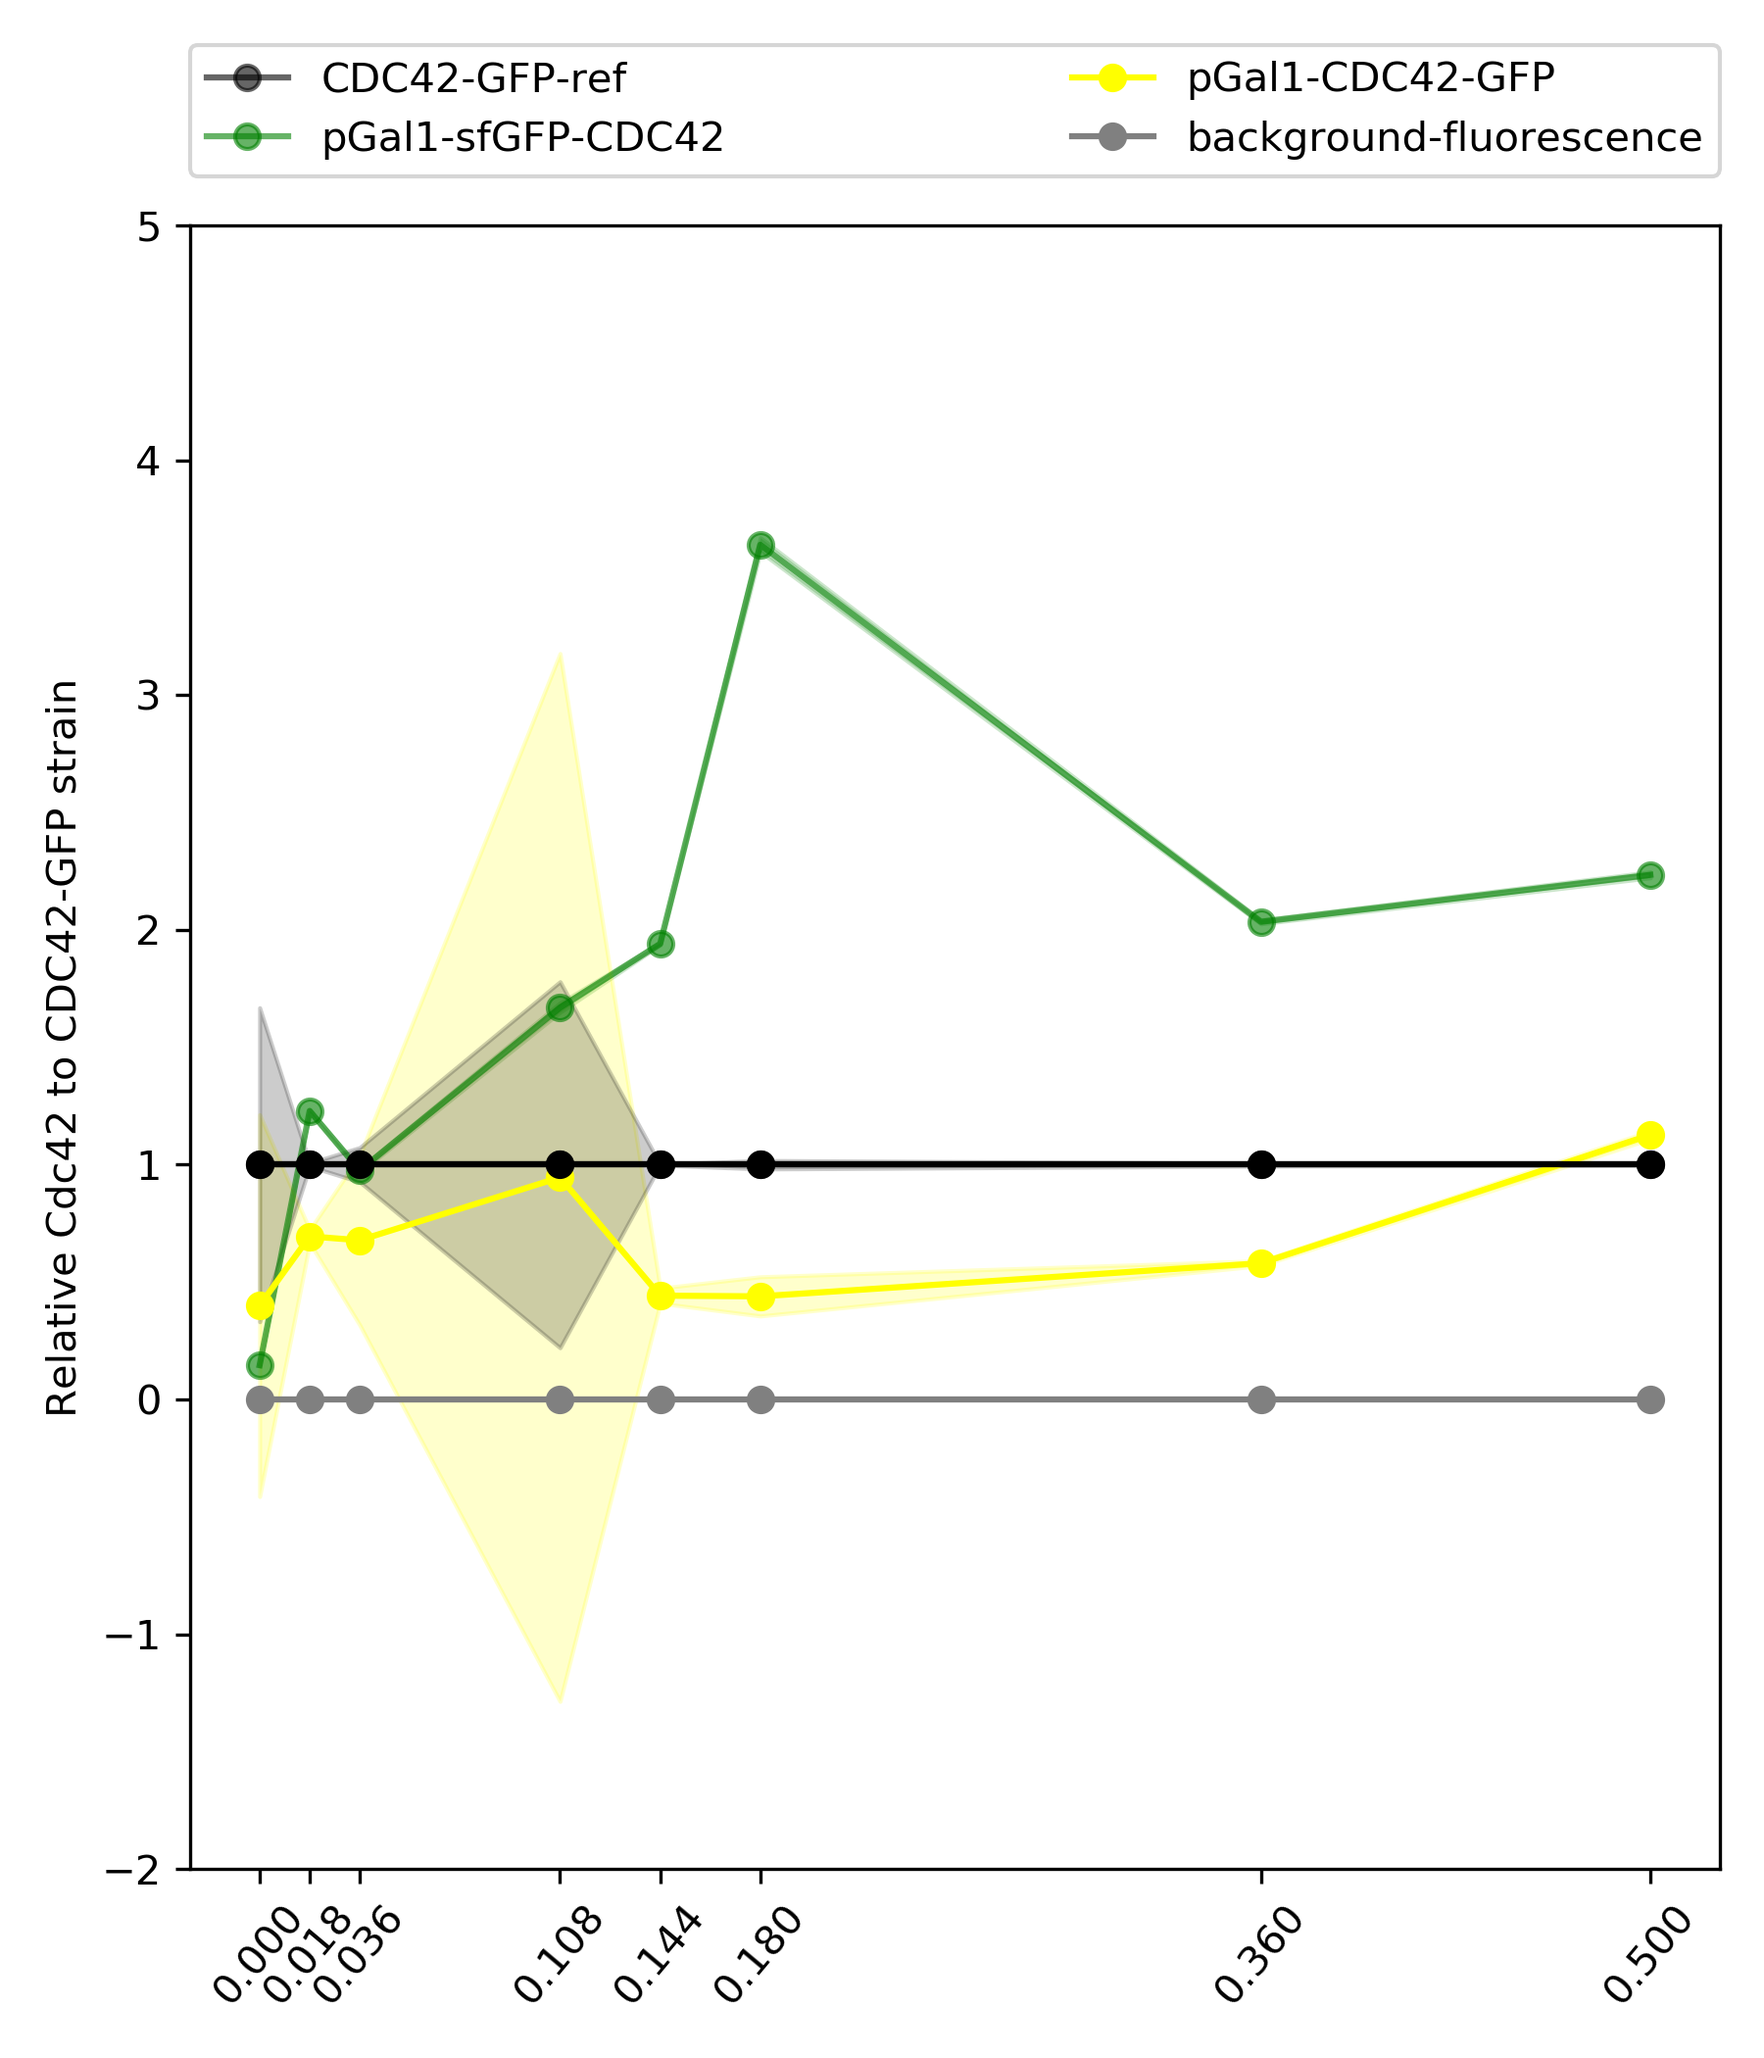
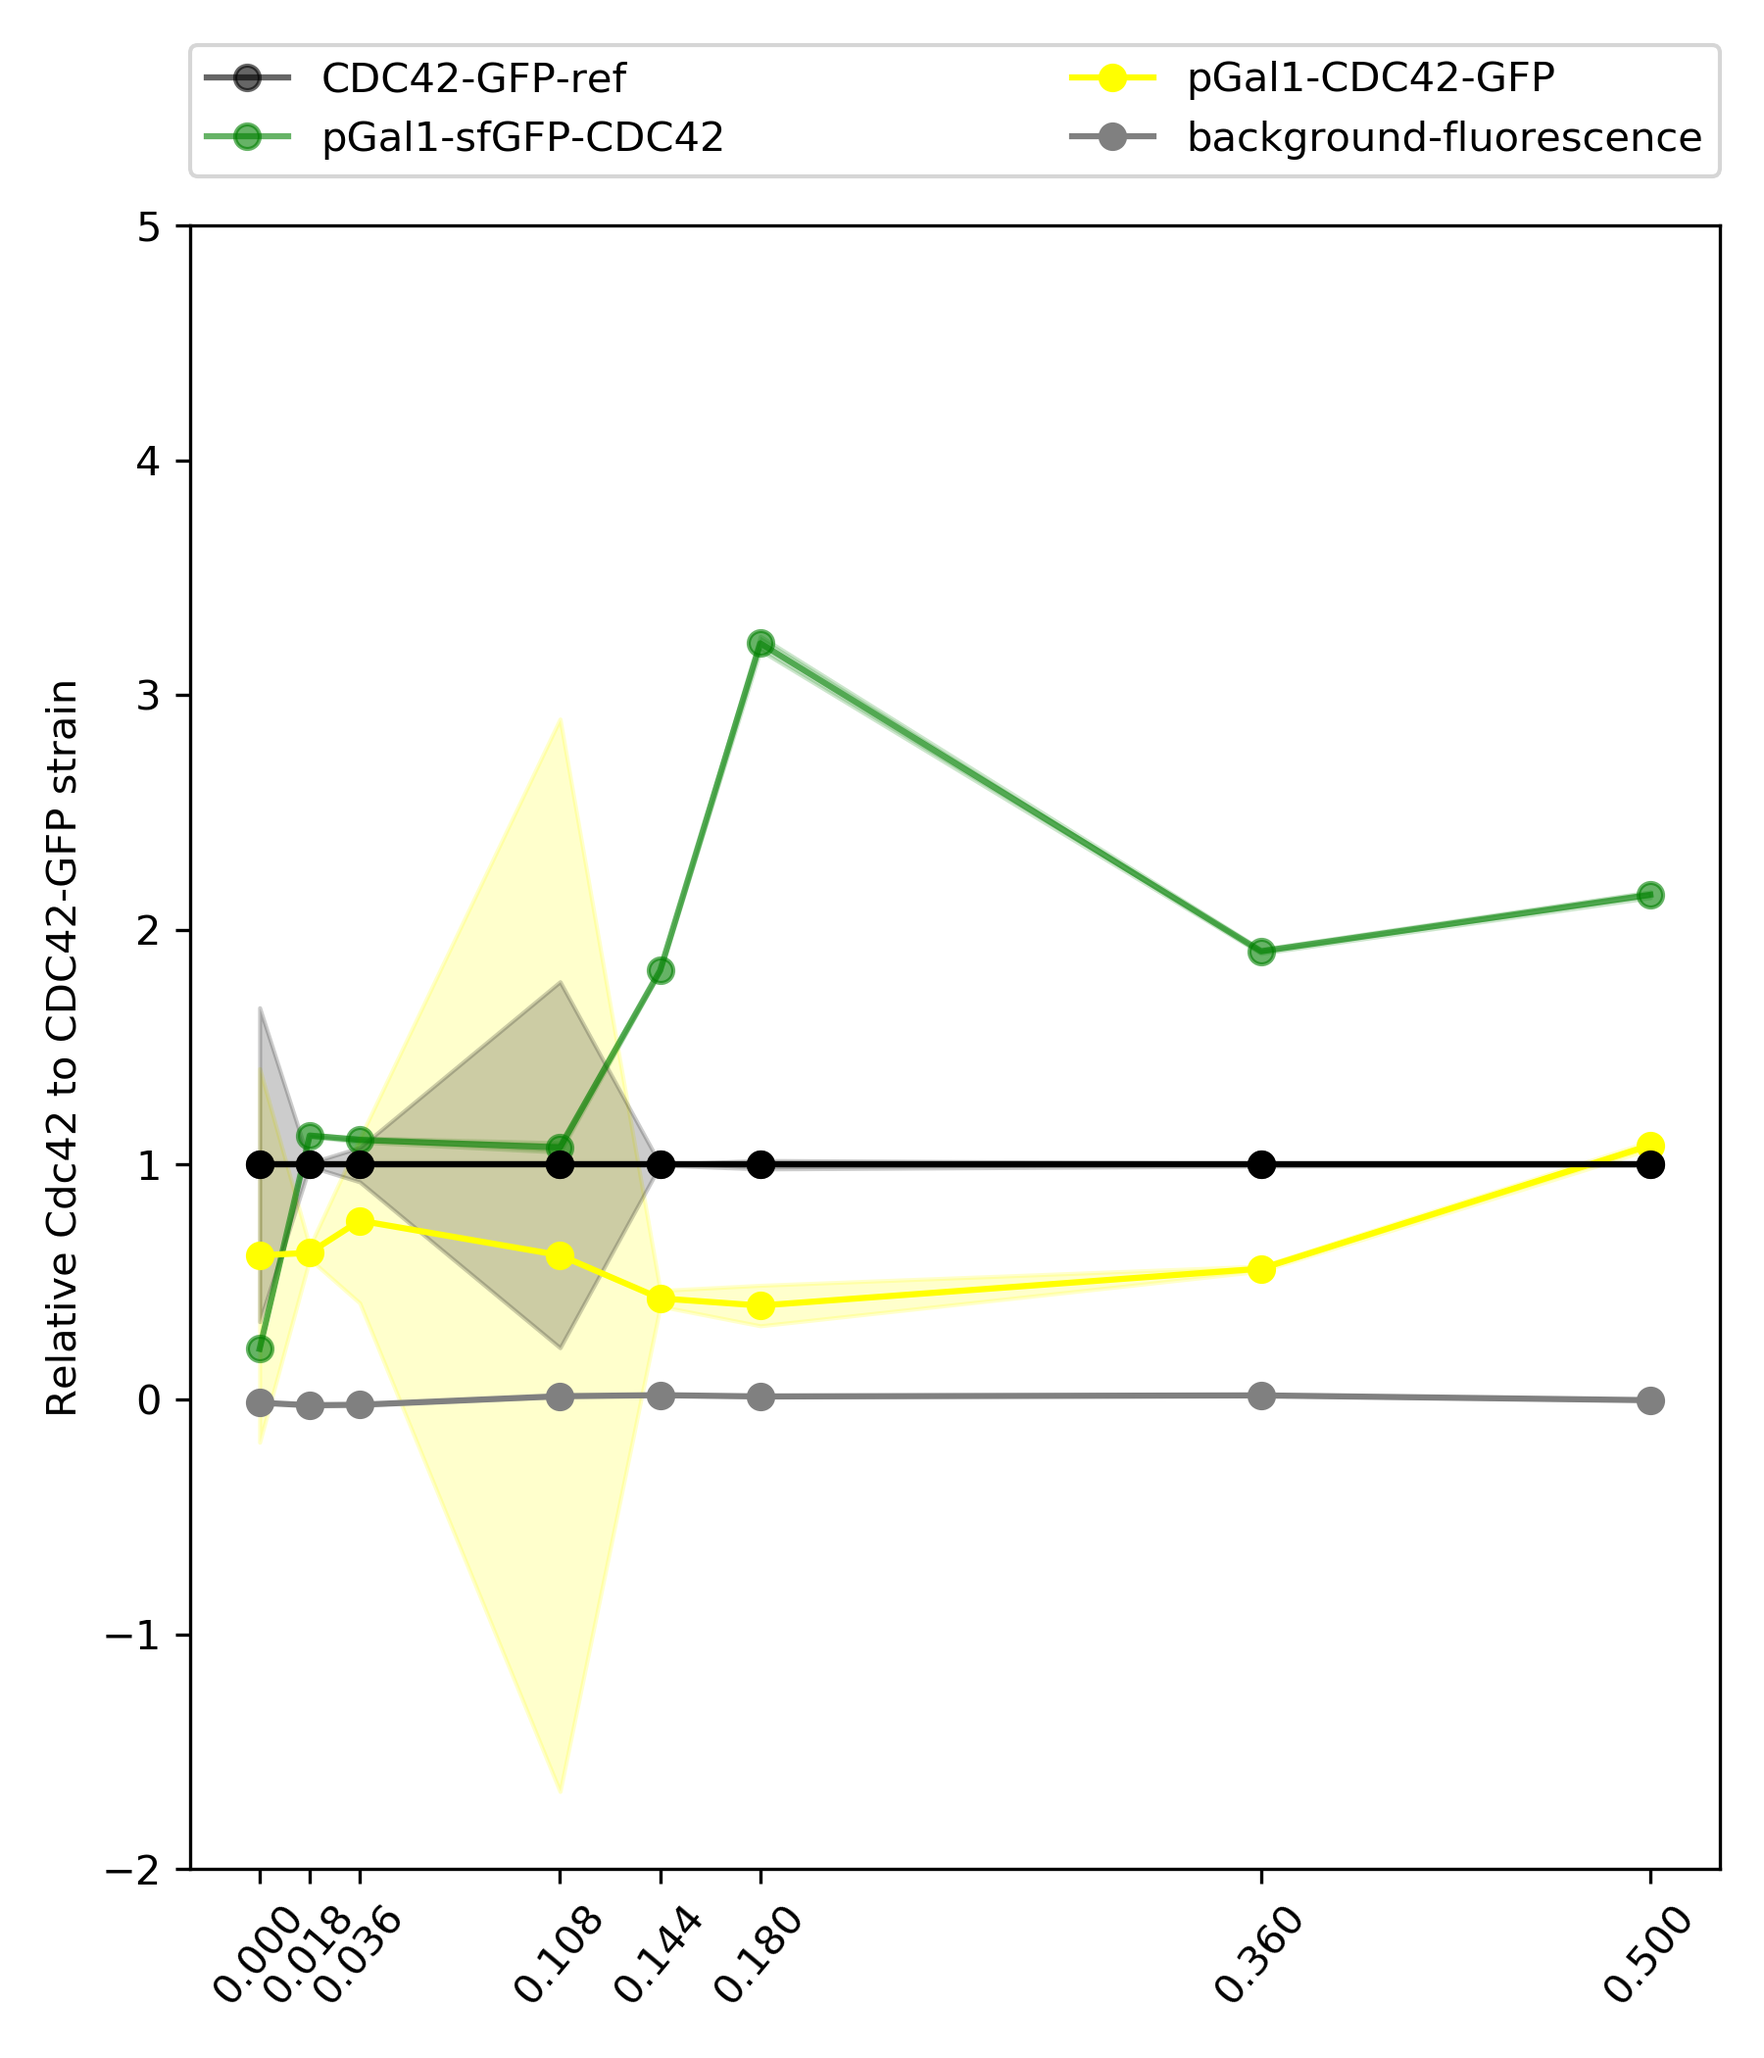
update-facs

diff --git a/journal/2020-03/2020-03-04-FACs.md b/journal/2020-03/2020-03-04-FACs.md
@@ -79,4 +79,15 @@ colorlinks: true
 
 - One take home message  is to grow more amount of cells for ywkd024 and ywkd038 because they have very large lag phase, and it seems by taking very small amount as I did in this experiment I increase the chances of taking slow growers (?)
 - However they grew much better than in the previous experiment. Yet they were not expressing much CDC42 (ywkd24)
-- In 0% gal , the fluorescence the wild type show is the left over after 24 hours in this concentration. Which can be used to estimate the amount of cdc42 we see in the microscopy experiments. So in this case will be that in 0% gal, the wt has aorund 0.6x the native amount and dbem1 was almost dead and also dbem1dbem3.
+- In 0% gal , the fluorescence the wild type show is the left over after 24 hours in this concentration. Which can be used to estimate the amount of cdc42 we see in the microscopy experiments. So in this case will be that in 0% gal, the wt has around 0.38x the native amount and dbem1 was almost dead and also dbem1dbem3.
+
+| Gal concentration | [cdc42-gal]/mean-ref |
+|-------------------|----------------------|
+| 0% Gal            | 0.380224             |
+| 0.01% Gal         | 0.679128             |
+| 0.02% Gal         | 0.729760             |
+| 0.06% Gal         | 0.741663             |
+| 0.08% Gal         | 1.081503             |
+| 0.1% Gal          | 0.917127             |
+| 0.2% Gal          | 1.909962             |
+| 2% Gal            | 2.913480             |

diff --git a/journal/2020-02/2020-02-25-FACs-starting-with-30C-shaking.md b/journal/2020-02/2020-02-25-FACs-starting-with-30C-shaking.md
@@ -99,3 +99,17 @@ colorlinks: true
   - It seems that for glucose the effect is the opposite. For T=36C the growth seems better than for 30C.
 
 ## Conclusion
+
+-  In 0% gal , the fluorescence the wild type show is the left over after 24 hours in this concentration. Which can be used to estimate the amount of cdc42 we see in the microscopy experiments. So in this case will be that in 0% gal, the wt has around 0.21x the native amount and dbem1 was almost dead and also dbem1dbem3.
+-  Table with values:
+
+| Gal concentration | [cdc42-gal]/[mean-ref]|
+|-------------------|----------------------|
+| 0% Gal            | 0.215743             |
+| 0.018% Gal         | 1.124315             |
+| 0.036% Gal         | 1.105623             |
+| 0.108% Gal         | 1.073516             |
+| 0.144% Gal         | 1.827492             |
+| 0.18% Gal          | 3.220484             |
+| 0.36% Gal          | 1.908644             |
+| 3.6% Gal            | 2.149941             |
